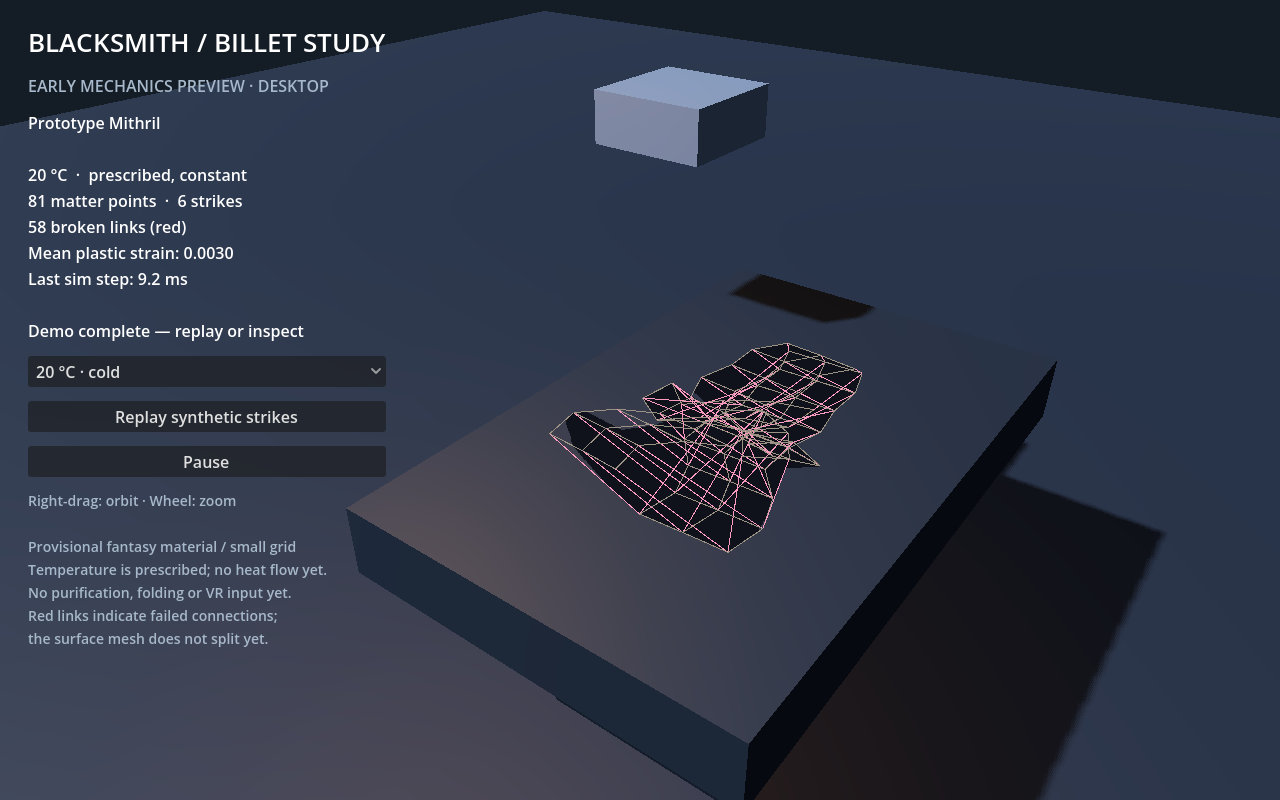
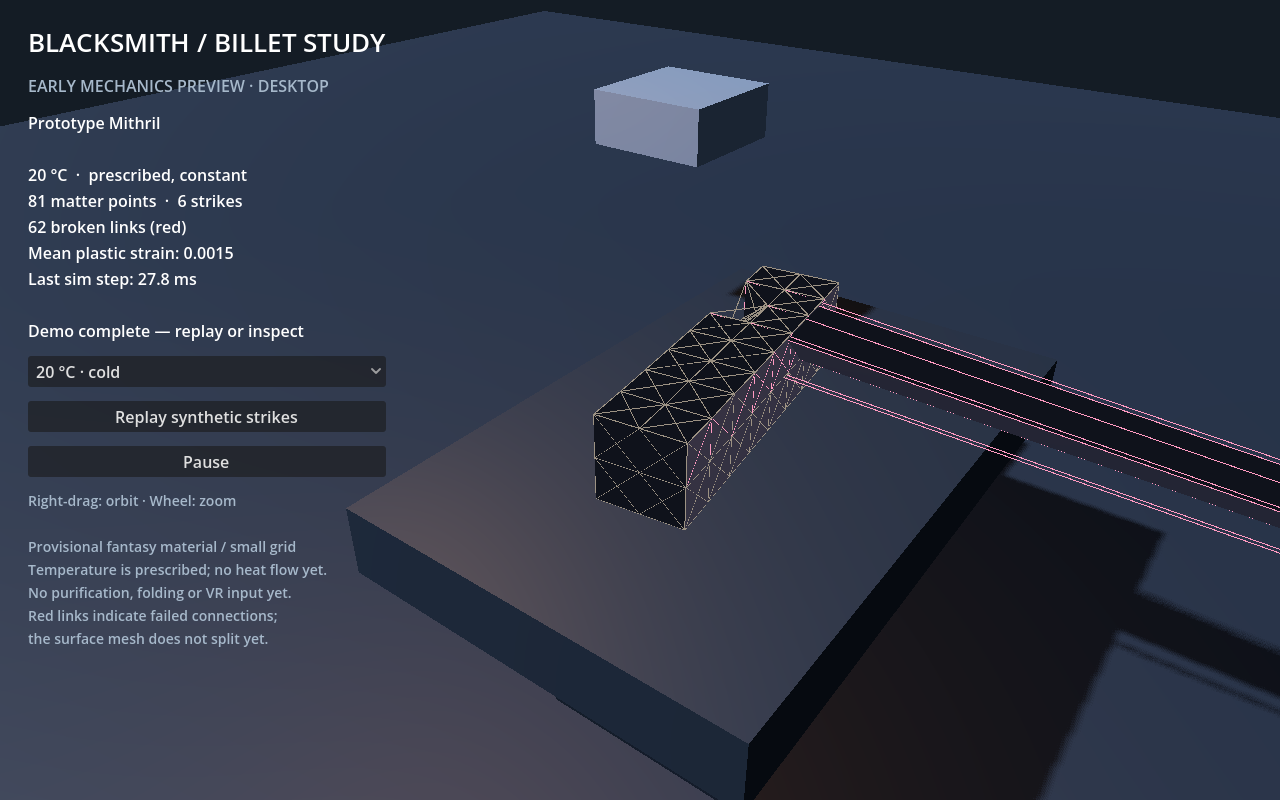
fix(sim): prevent unstruck billet collapse under gravity (#38)

Changed region(s): [[0.4375, 0.3125, 1.0, 0.6875], [0.875, 0.7188, 1.0, 0.875], [0.0938, 0.3438, 0.1562, 0.375]]

diff --git a/native/src/solver.cpp b/native/src/solver.cpp
@@ -220,13 +220,18 @@ bool Solver::step(double dt) {
                 error = "Invalid or unavailable native material curve response.";
                 return false;
             }
-            n.velocity += parameters.gravity * h;
             n.position += n.velocity * h;
         }
         anvil(h);
         record(1, phase_start);
         phase_start = now();
         plasticity();
+        // Resolve body-force prediction elastically before the next plastic trial.
+        for (auto &n : work.nodes) {
+            n.velocity += parameters.gravity * h;
+            n.position += parameters.gravity * h * h;
+        }
+        anvil(h);
         lambdas.assign(work.links.size(), 0);
         volume_lambdas.assign(work.cells.size(), 0);
         // Compliance and inverse masses do not vary during projection iterations.

diff --git a/AGENTS.md b/AGENTS.md
@@ -536,8 +536,35 @@ without native compilation. No native extension manifest is copied. This does
 not remove native requirements from root-project validation or production work.
 Re-run staging after edits. See README.md for controls and capture/smoke commands.
 Surface quads follow boundary nodes; red links show fracture, but the rendered
-surface does not split yet. The hot fixture also deforms during gravitational
-settling: report the existing model's behavior honestly rather than promising
-calibrated forging feel. Windows Forward+ rendering uses the RTX 3080 Ti; XR has
+surface does not split yet. Issue #37 corrects the early preview's gravity-driven collapse. Both temperatures
+now remain intact before impacts; this still does not establish calibrated feel. Windows Forward+ rendering uses the RTX 3080 Ti; XR has
 not been tested. The old WSL software Vulkan stack crashed during rendering, so
 headless Linux checks and actual Windows rendering are reported separately.
+
+
+### Resting-billet stability correction (#37)
+
+The old axial-only grid had a shear mechanism, and plastic return mapping sampled
+unconstrained gravity prediction before elastic support. Together they fractured
+and flattened the cold billet before a hit. Grid construction now adds unique
+face/body diagonal springs with `grid_bracing_area_scale` from mechanics tuning
+(provisional default 0.25; omitted/zero keeps the old axial topology). Brace links
+use the same material curves, damping, yielding and compression/tension damage as
+other links. No points are pinned, gravity is retained and the anvil is frictionless.
+Cells retain their twelve axial edge references for volume/fracture activation.
+
+Both solvers now predict existing velocity/contact motion, perform the plastic
+trial, then apply gravity and solve elastic/contact constraints before the next
+trial. This prevents free gravity prediction from being interpreted immediately
+as irreversible compression. New tests require sub-0.1 mm displacement, zero
+plastic strain/damage and conserved mass over 72 gravity-only steps at hot/cold
+fixture temperatures, with native/reference parity. Strong strikes still deform
+or fracture; the fixture hammer speed is provisional 0.1 m/s.
+
+The opt-in benchmark explicitly sets `benchmark.grid_bracing_area_scale=0` to
+preserve the historical 5,000-point / 14,050-link topology. The visible grid has
+additional links and is not a like-for-like performance comparison. Future timing
+reports must label topology. No performance optimization is part of this fix.
+`--preview-before-strike` checks/captures the cold scene with zero hits, plastic
+strain and broken links, and is also exercised in CI. Continue with visible thermal
+transport (#10) after this correction; optimization #33 remains deferred.

diff --git a/README.md b/README.md
@@ -26,8 +26,8 @@ extension build described in [AGENTS.md](AGENTS.md).
 Temperatures are constant fixture inputs, not a heating/cooling simulation.
 Impurities, folding/welding, tracked hammering, naming and inventory are not wired
 into this preview. Materials and mechanics are provisional; this is useful visual
-feedback for development, not calibrated forging behavior. In particular, the
-current hot billet also settles/deforms under its own weight. The hammer block
+feedback for development, not calibrated forging behavior. Both hot and cold billets now remain intact under their own weight
+before strikes. The hammer block
 illustrates scripted impacts; it is not a tracked or simulated rigid-body tool.
 
 The fixture preserves the solver's 4 substeps × 8 iterations and 1/90 s numerical
@@ -44,7 +44,8 @@ godot --headless --path .build/preview -- --preview-smoke --preview-cold
 godot --path .build/preview -- --preview-capture=/absolute/path/preview.png
 ```
 
-These finish after six synthetic strikes and check for finite geometry and a
+Add `--preview-before-strike` to verify/capture the undamaged resting billet.
+The normal runs finish after six synthetic strikes and check for finite geometry and a
 mechanical response. Captures require a working graphical display and driver.
 The preview has been rendered on Windows / RTX 3080 Ti / Vulkan Forward+ and run
 headlessly on Linux/WSL. No XR headset or tracked input is validated yet.
